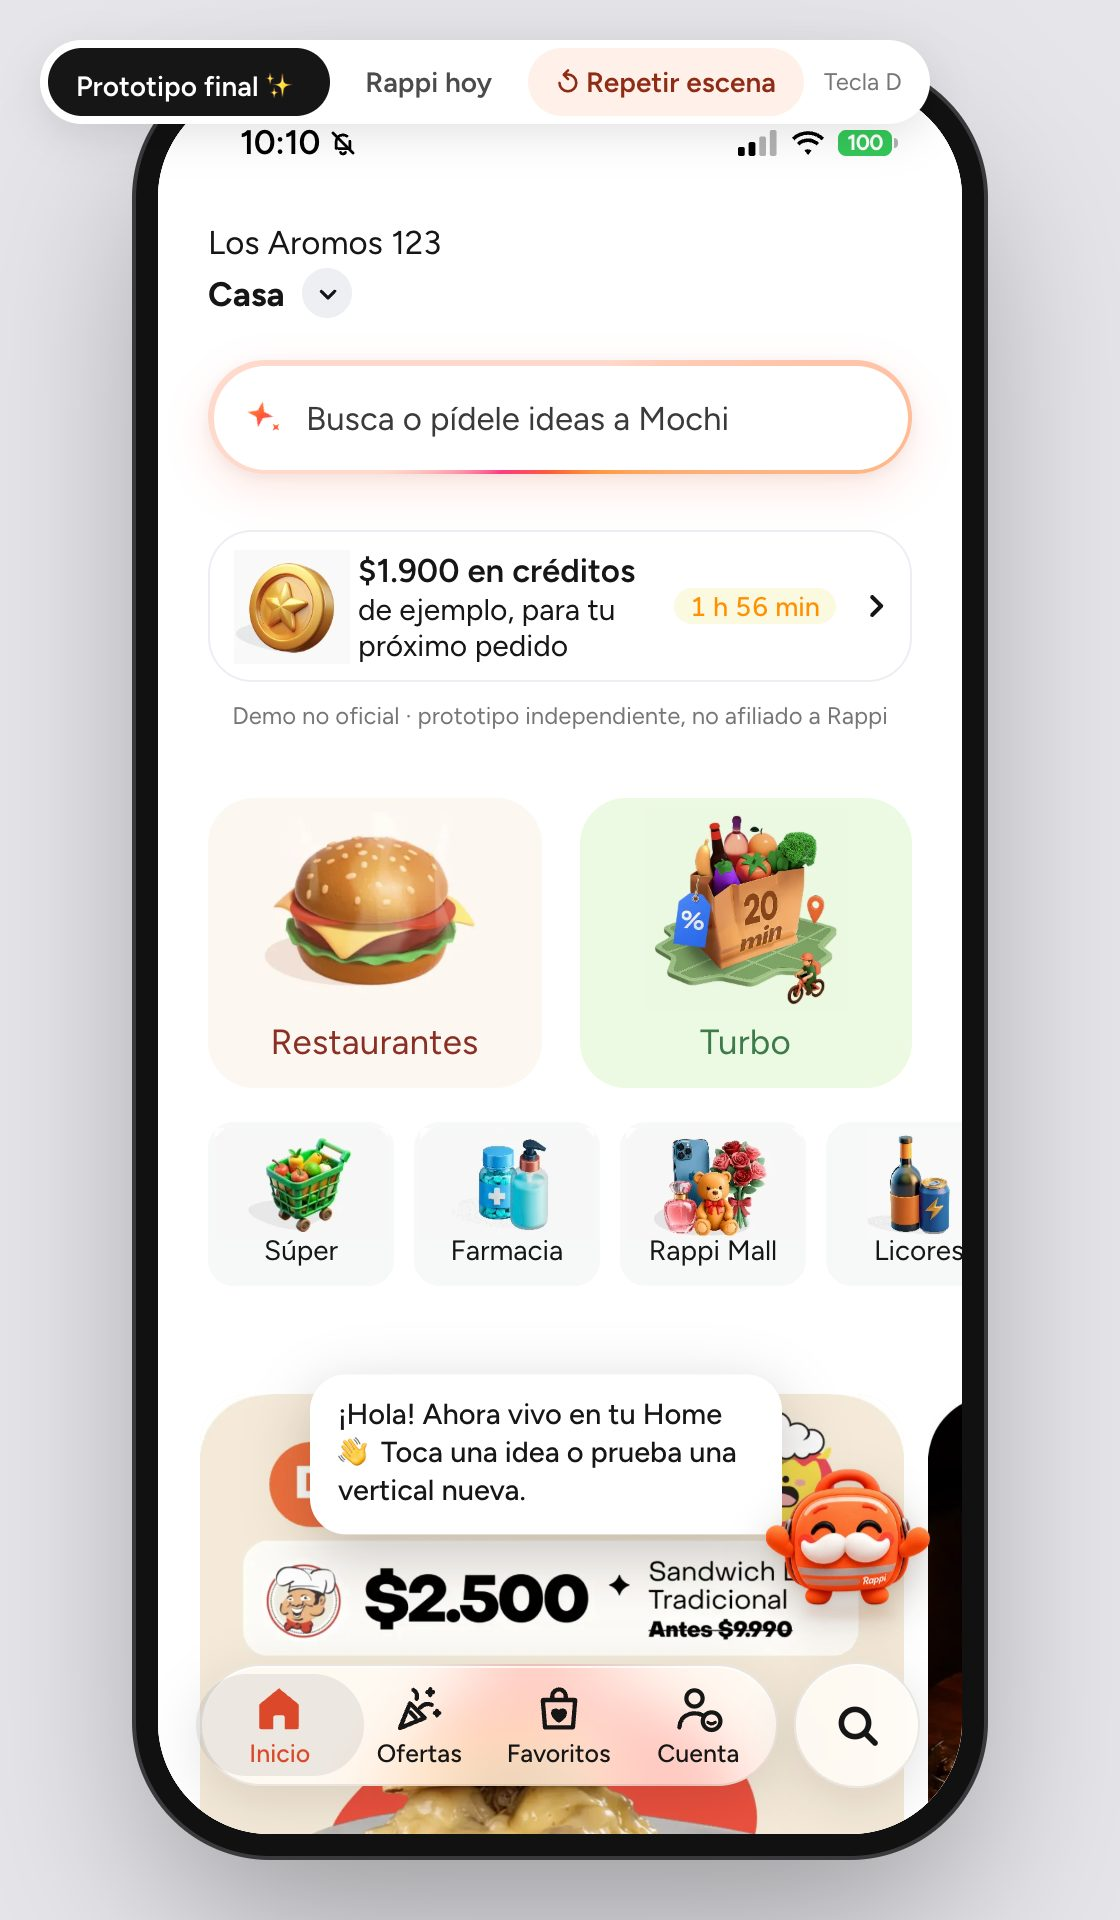
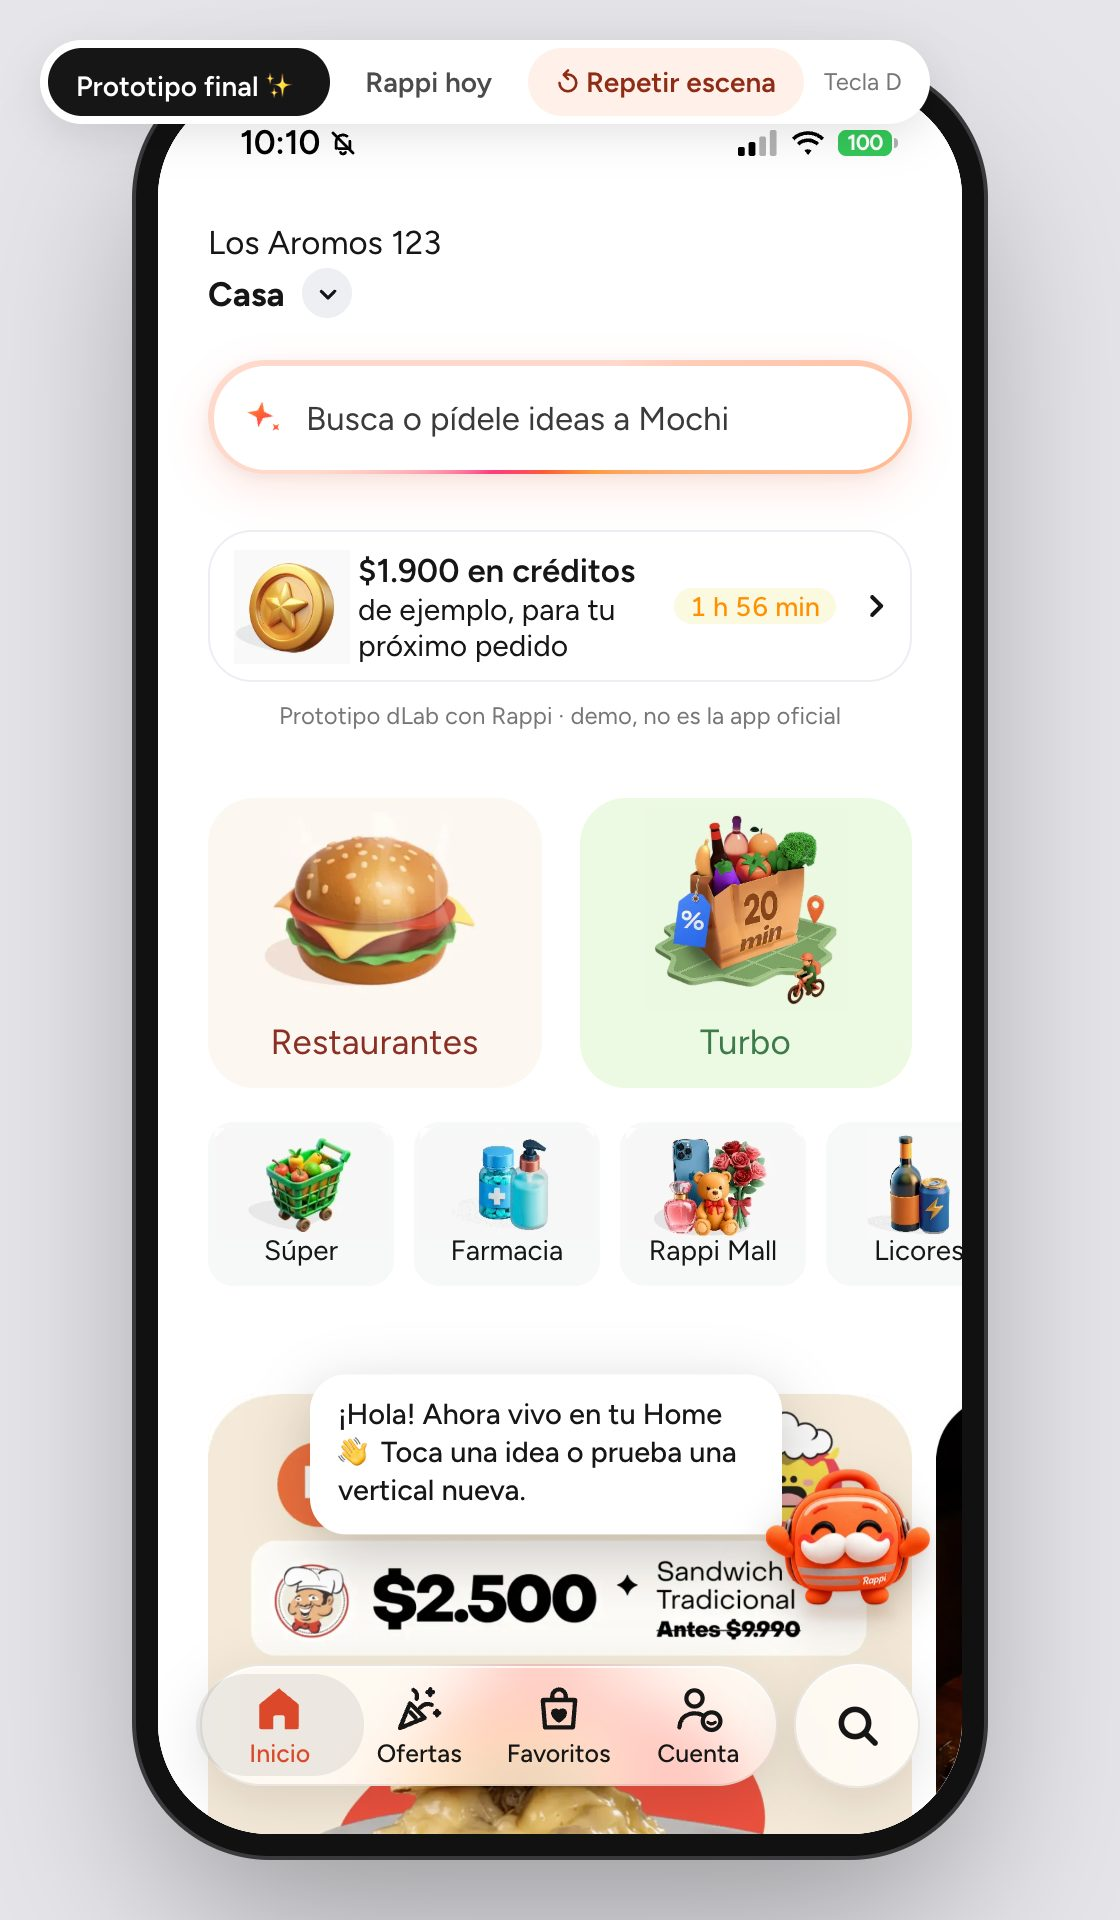
docs(capturas): capturas nuevas de la app y del panel
Las del 25 y 26-10 decían "prototipo independiente, no afiliado a Rappi" y
el panel tenía 3 pestañas. Tomadas el 03-11 con la API sobre rappi_staging.
La página de la propuesta usa las nuevas (con sus textos al día). El script
de la app cierra la explicación del orden de la Home antes de tocar a Mochi
y espera la pregunta entera: desde #31, abría el "¿Por qué?" equivocado.

diff --git a/dashboard-empresa/presentacion.html b/dashboard-empresa/presentacion.html
@@ -117,16 +117,17 @@
               src="/presentacion/buscador-mochi.jpg"
               width="804"
               height="1748"
-              alt="Buscador con Mochi: productos reales de Express para un carrete y una sugerencia de salsas y aderezos del Súper"
+              alt="Buscador con Mochi tras pedir &quot;¿qué llevo para un asado de 6?&quot;: cortes de asado reales del Súper, los chips Más barato, Otra opción y Para 8 personas, y la sugerencia de sumar carbón de Express porque lleva carnes"
               loading="lazy"
             />
           </figure>
           <div class="example-copy">
             <h3>Un ejemplo con el catálogo real</h3>
             <p>
-              Alguien toca "Arma un carrete". Mochi, el asistente del prototipo, responde con
-              productos reales de Express (snacks y bebidas: sin alcohol si no se lo piden) y agrega una sola sugerencia
-              de otro vertical: salsas y aderezos del Súper, con la razón a la vista.
+              Alguien pide "¿qué llevo para un asado de 6?". Mochi, el asistente del prototipo, responde con cortes
+              reales del Súper y calcula la carne para 6; la respuesta se refina con chips ("Más barato", "Otra opción",
+              "Para 8 personas"), sin chat. Agrega una sola sugerencia de otro vertical: carbón de Express, con la razón a
+              la vista ("Porque llevas carnes y parrilla").
             </p>
             <ul class="rules">
               <li>Como máximo una sugerencia cruzada por respuesta.</li>
@@ -197,7 +198,7 @@
               src="/presentacion/home-dinamica.jpg"
               width="804"
               height="1748"
-              alt="Home con los accesos reordenados: Chocolates y Rappi Mall primero, con la leyenda &quot;Ordenadas según lo que más usas&quot;"
+              alt="Home con los accesos reordenados: Chocolates y Rappi Mall primero, la leyenda &quot;Ordenadas según lo que más usas&quot; y Mochi diciendo &quot;Moví Rappi Mall más adelante, según lo que más usas&quot;"
               loading="lazy"
             />
           </figure>
@@ -205,7 +206,7 @@
             <h3>La Home de alguien que abrió Chocolates y Rappi Mall</h3>
             <p>
               Entró dos veces a Chocolates y una a Rappi Mall, y esos accesos suben al principio con la leyenda "Ordenadas
-              según lo que más usas". Quien no tiene historial ve el orden de siempre, y en "Rappi hoy" la Home no aprende.
+              según lo que más usas"; Mochi dice cuál movió y por qué. Quien no tiene historial ve el orden de siempre, y en "Rappi hoy" la Home no aprende.
             </p>
             <ul class="rules">
               <li>Lo personal sale solo de los datos de cada persona.</li>

diff --git a/docs/instalacion.md b/docs/instalacion.md
@@ -147,7 +147,7 @@ Ctrl-C detiene los tres; si uno se cae solo, detiene el resto. No descarga nada 
 
 Mientras la API está en marcha, también falla ante un error de la página o de la consola o una respuesta 4xx/5xx (solo se ignoran las imágenes de prueba, que no existen). Termina con "MVP check: 9 de 9 bien" y no deja nada escuchando. Necesita libres los puertos 8010, 5184 y 5185. **Borra y vuelve a sembrar `rappi_ia_test`:** comparte con `make test` y `make contract` de `rappi-ia/` un candado (`.git/rappi-ia-test-db.lock`, en la carpeta común de git, así que también entre worktrees; fuera de git, `rappi-ia/.test-db.lock`), así que si otra prueba está corriendo sale de inmediato con "Otra prueba está usando rappi_ia_test"; si el proceso que lo tenía murió (kill -9, apagón), el siguiente comando toma el candado solo; si el aviso persiste y nada usa la base, el mensaje dice cómo borrarlo (`rm -rf` con la ruta del candado). Funciona igual en Linux (sin `lsof`; con `CHROME_PATH` o `PLAYWRIGHT_CHANNEL` se elige otro Chrome) y es el job `mvp-check` del CI (que sube capturas de las revisiones que fallen).
 
-También: `make contract` en `rappi-ia/` reescribe las respuestas de ejemplo de la API que usa la app (`prototipo-app/src/api/fixtures/`; el CI falla si quedan desactualizadas), y `npm run screenshots` en `prototipo-app/` necesita la API corriendo y, como paga una compra, deja un pedido y sus eventos (`source = 'prototype'`) en la base que use la API. Para no tocar la base real, apunta la API a una copia: `DATABASE_URL=postgresql:///rappi_staging make mvp` (así se tomaron las capturas del 16-10-2026). Por eso el script se niega a correr sin la variable `SCREENSHOTS_ALLOW_WRITES=1` (`SCREENSHOTS_ALLOW_WRITES=1 npm run screenshots`). "¿Repetimos?" sale de la respuesta de ejemplo del contrato (`agent-offer-recompra.json`) con un café real del catálogo: es una ilustración, no un hábito medido. Las capturas del panel (`npm run screenshots` en `dashboard-empresa/`) usan la API si está arriba y, si no, los datos guardados de `src/fixtures/` (y lo avisan); no escriben en la base.
+También: `make contract` en `rappi-ia/` reescribe las respuestas de ejemplo de la API que usa la app (`prototipo-app/src/api/fixtures/`; el CI falla si quedan desactualizadas), y `npm run screenshots` en `prototipo-app/` necesita la API corriendo y, como paga una compra, deja un pedido y sus eventos (`source = 'prototype'`) en la base que use la API. Para no tocar la base real, apunta la API a una copia: `DATABASE_URL=postgresql:///rappi_staging make mvp` (así se tomaron las capturas del 03-11-2026). Por eso el script se niega a correr sin la variable `SCREENSHOTS_ALLOW_WRITES=1` (`SCREENSHOTS_ALLOW_WRITES=1 npm run screenshots`). "¿Repetimos?" sale de la respuesta de ejemplo del contrato (`agent-offer-recompra.json`) con un café real del catálogo: es una ilustración, no un hábito medido. Las capturas del panel (`npm run screenshots` en `dashboard-empresa/`) usan la API si está arriba y, si no, los datos guardados de `src/fixtures/` (y lo avisan); no escriben en la base.
 
 ## 6. Actualización semanal
 

diff --git a/dashboard-empresa/README.md b/dashboard-empresa/README.md
@@ -58,7 +58,7 @@ La URL de la API se cambia con `VITE_API_URL`, por ejemplo `VITE_API_URL=http://
 | `npm run format:check` | Revisa el formato con Prettier sin cambiar nada (lo que corre el CI); `npm run format` lo arregla |
 | `npm run build` | Build de producción en `dist/` |
 | `npm run fixtures` | Guarda en el repo las respuestas simuladas de la última foto de `npm run panel:snapshot`: las de `src/fixtures/sin-conexion/` (lo que se ve sin la API) y los ejemplos `*.synthetic.json` de los tests. Correrlo tras `make synth` o una actualización del catálogo, después de grabar la foto. El uso del prototipo no se guarda (lleva lo que hizo la gente). Los ejemplos de ofertas por momento, a quién invitar a volver, búsquedas sin resultado, combinaciones, motor y experimentos de `src/fixtures/` no pasan por aquí: los escribe `make contract` en `rappi-ia/` (con su simulación chica) y el CI falla si quedan desactualizados |
-| `npm run screenshots` | Regenera `docs/screenshots/` con el Chrome instalado y un Vite propio en el 5198 (con `VITE_API_URL`, contra otra API: las de este README se tomaron el 26-10-2026 contra una API sobre `rappi_staging`) |
+| `npm run screenshots` | Regenera `docs/screenshots/` con el Chrome instalado y un Vite propio en el 5198 (con `VITE_API_URL`, contra otra API: las de este README se tomaron el 03-11-2026 contra una API sobre `rappi_staging`) |
 | `npm run panel:snapshot` | Graba las respuestas que lee el panel (solo GET) desde una API sobre una copia de la base, en `snapshot/panel.json` (ignorada en git). La usan `npm run fixtures` y el [panel en un solo HTML](#panel-en-un-solo-html) |
 | `npm run panel:html` | Arma `dist-html/Panel de negocio (demo).html`: el panel con esas respuestas adentro, que abre con doble clic sin la API ni internet |
 | `npm run panel:snapshot:fixtures` | Arma `snapshot/panel.json` desde los ejemplos de `src/fixtures/` (sin API), para probar `npm run panel:html` (lo hace el CI). No pisa una foto grabada |

diff --git a/prototipo-app/README.md b/prototipo-app/README.md
@@ -8,7 +8,7 @@ Hecho con Vite + React 19. **Necesita la API de [`rappi-ia`](../rappi-ia/)**: si
 
 ![Modo demo: la misma app en el prototipo final y en "Rappi hoy"](docs/screenshots/00-modo-demo.jpg)
 
-*Las capturas de las pantallas se tomaron el 26-10-2026 con la API corriendo sobre una copia de la base (`rappi_staging`) y el catálogo real (`npm run screenshots`); solo la ficha de Mochi es anterior. "¿Repetimos?" sale de la respuesta de ejemplo del contrato con un café real del catálogo: es una ilustración, no un hábito medido. Como el recorrido paga una compra y deja un pedido y sus eventos (`source = 'prototype'`) en la base que use la API, `npm run screenshots` se niega a correr sin `SCREENSHOTS_ALLOW_WRITES=1`: se corre con la API sobre `rappi_staging`, nunca sobre `rappi`.*
+*Las capturas de las pantallas se tomaron el 03-11-2026 con la API corriendo sobre una copia de la base (`rappi_staging`) y el catálogo real (`npm run screenshots`); solo la ficha de Mochi es anterior. "¿Repetimos?" sale de la respuesta de ejemplo del contrato con un café real del catálogo: es una ilustración, no un hábito medido. Como el recorrido paga una compra y deja un pedido y sus eventos (`source = 'prototype'`) en la base que use la API, `npm run screenshots` se niega a correr sin `SCREENSHOTS_ALLOW_WRITES=1`: se corre con la API sobre `rappi_staging`, nunca sobre `rappi`.*
 
 ## Cómo correrlo
 
